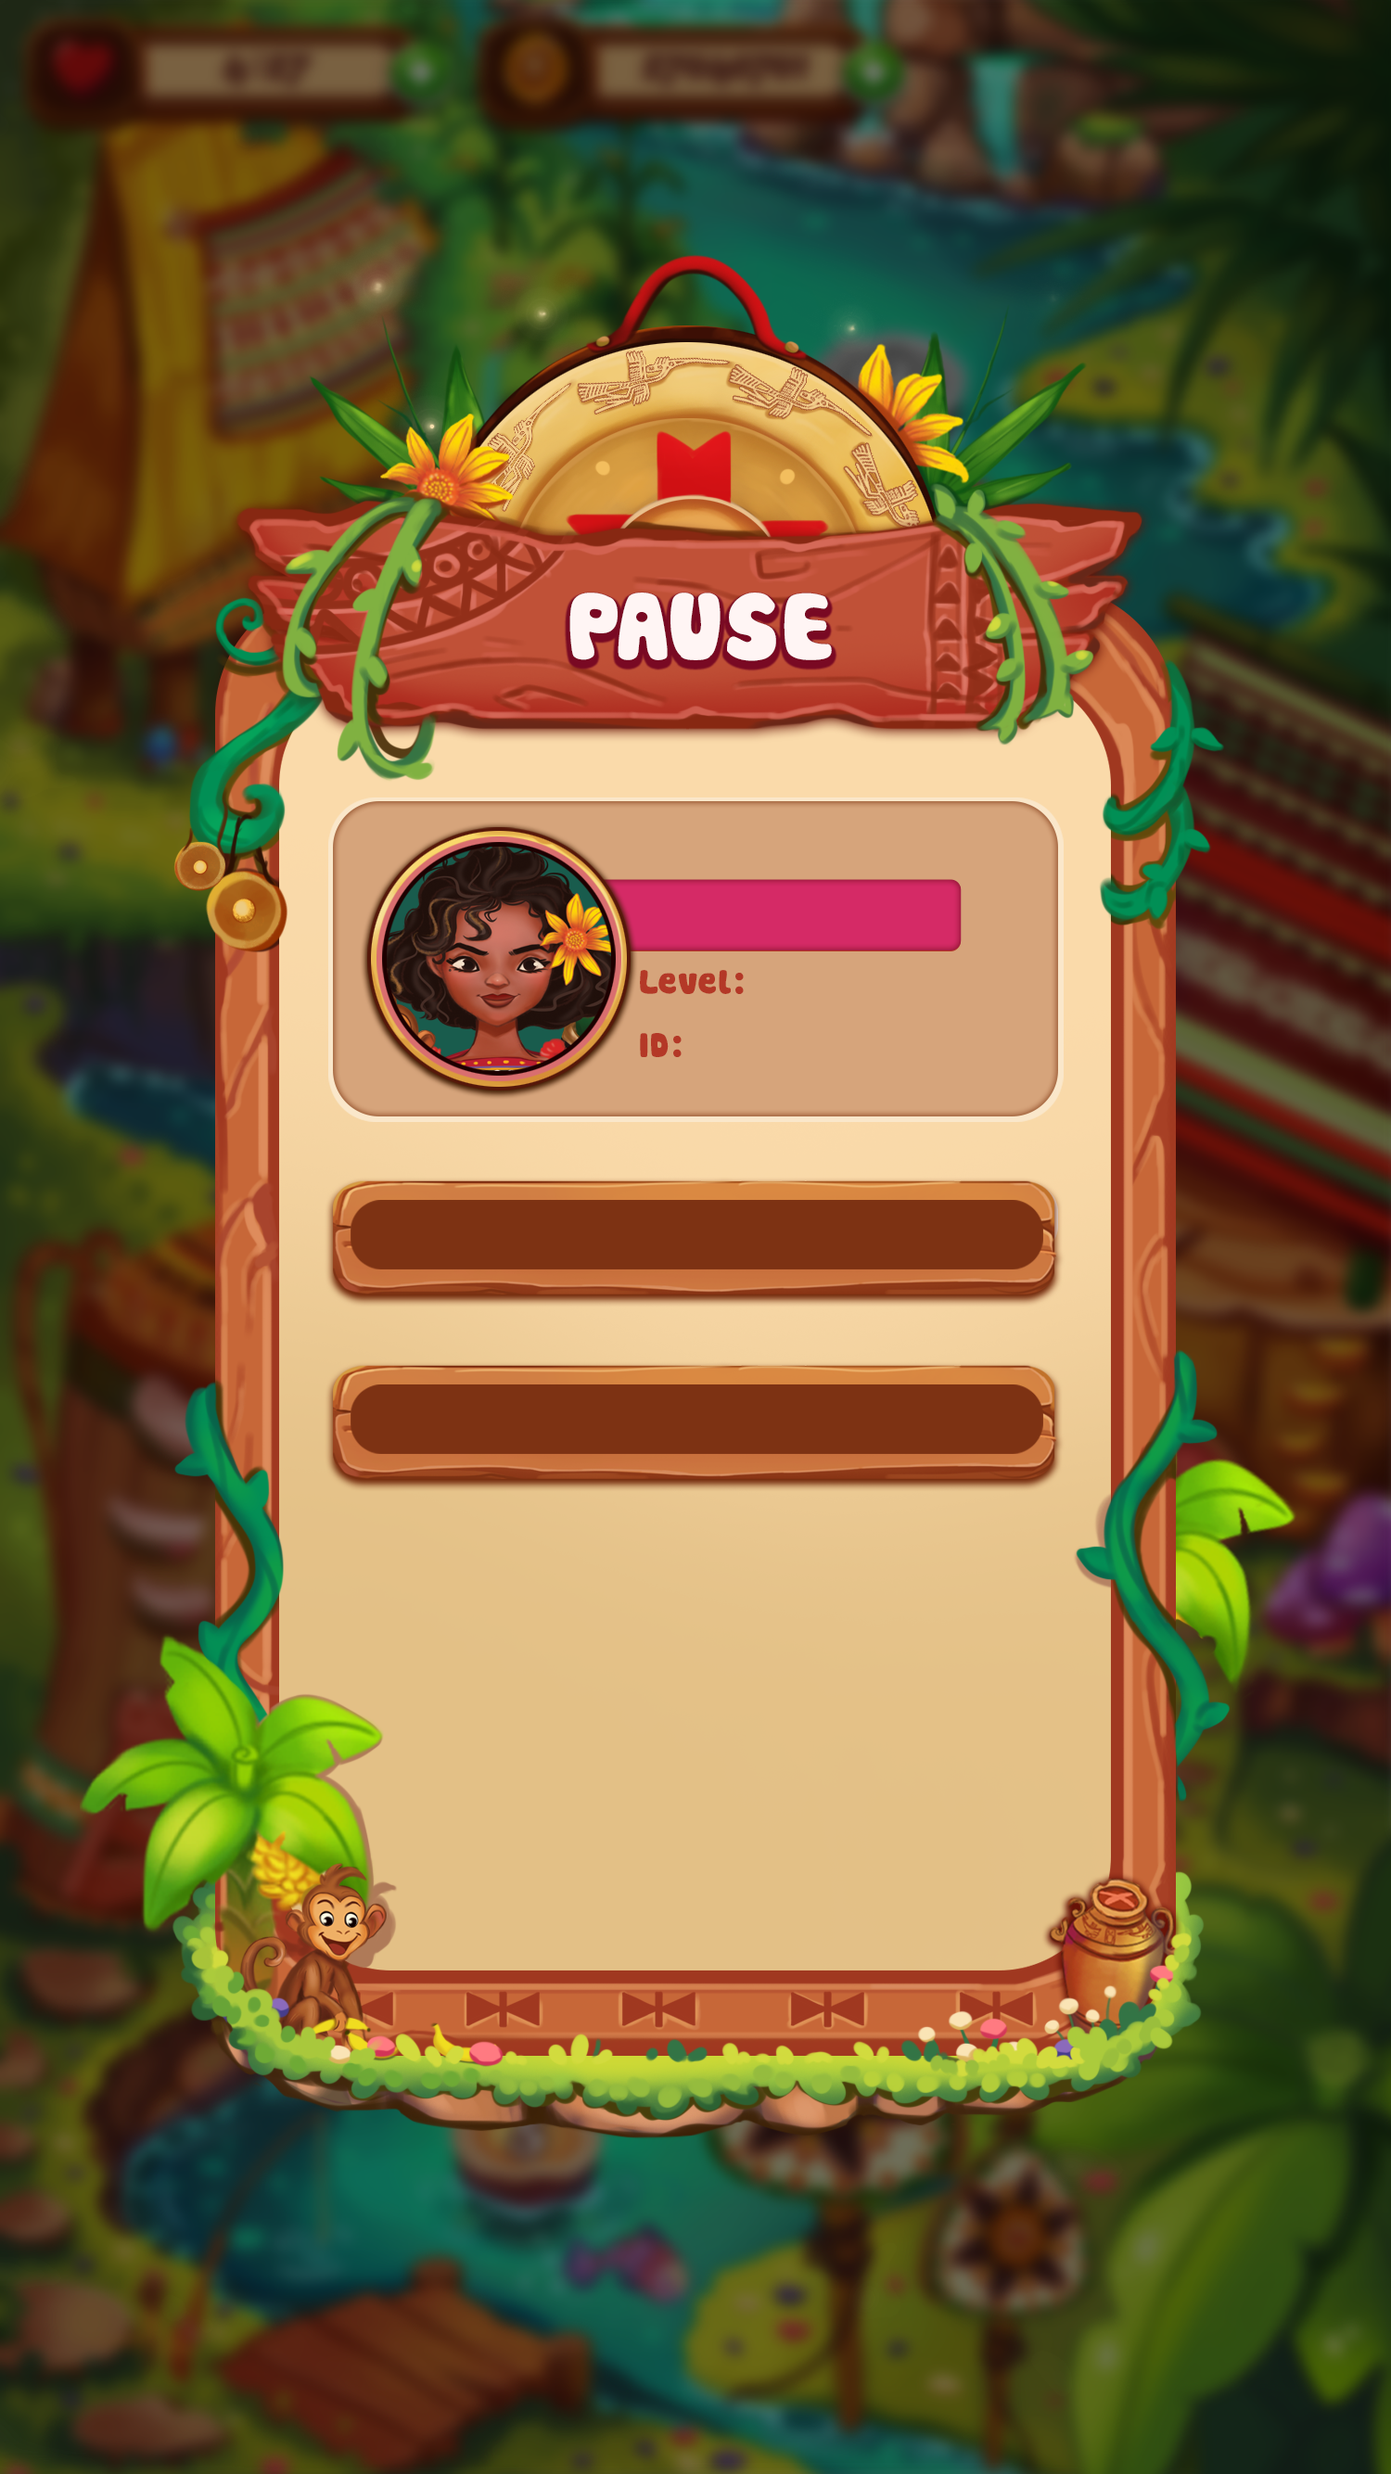
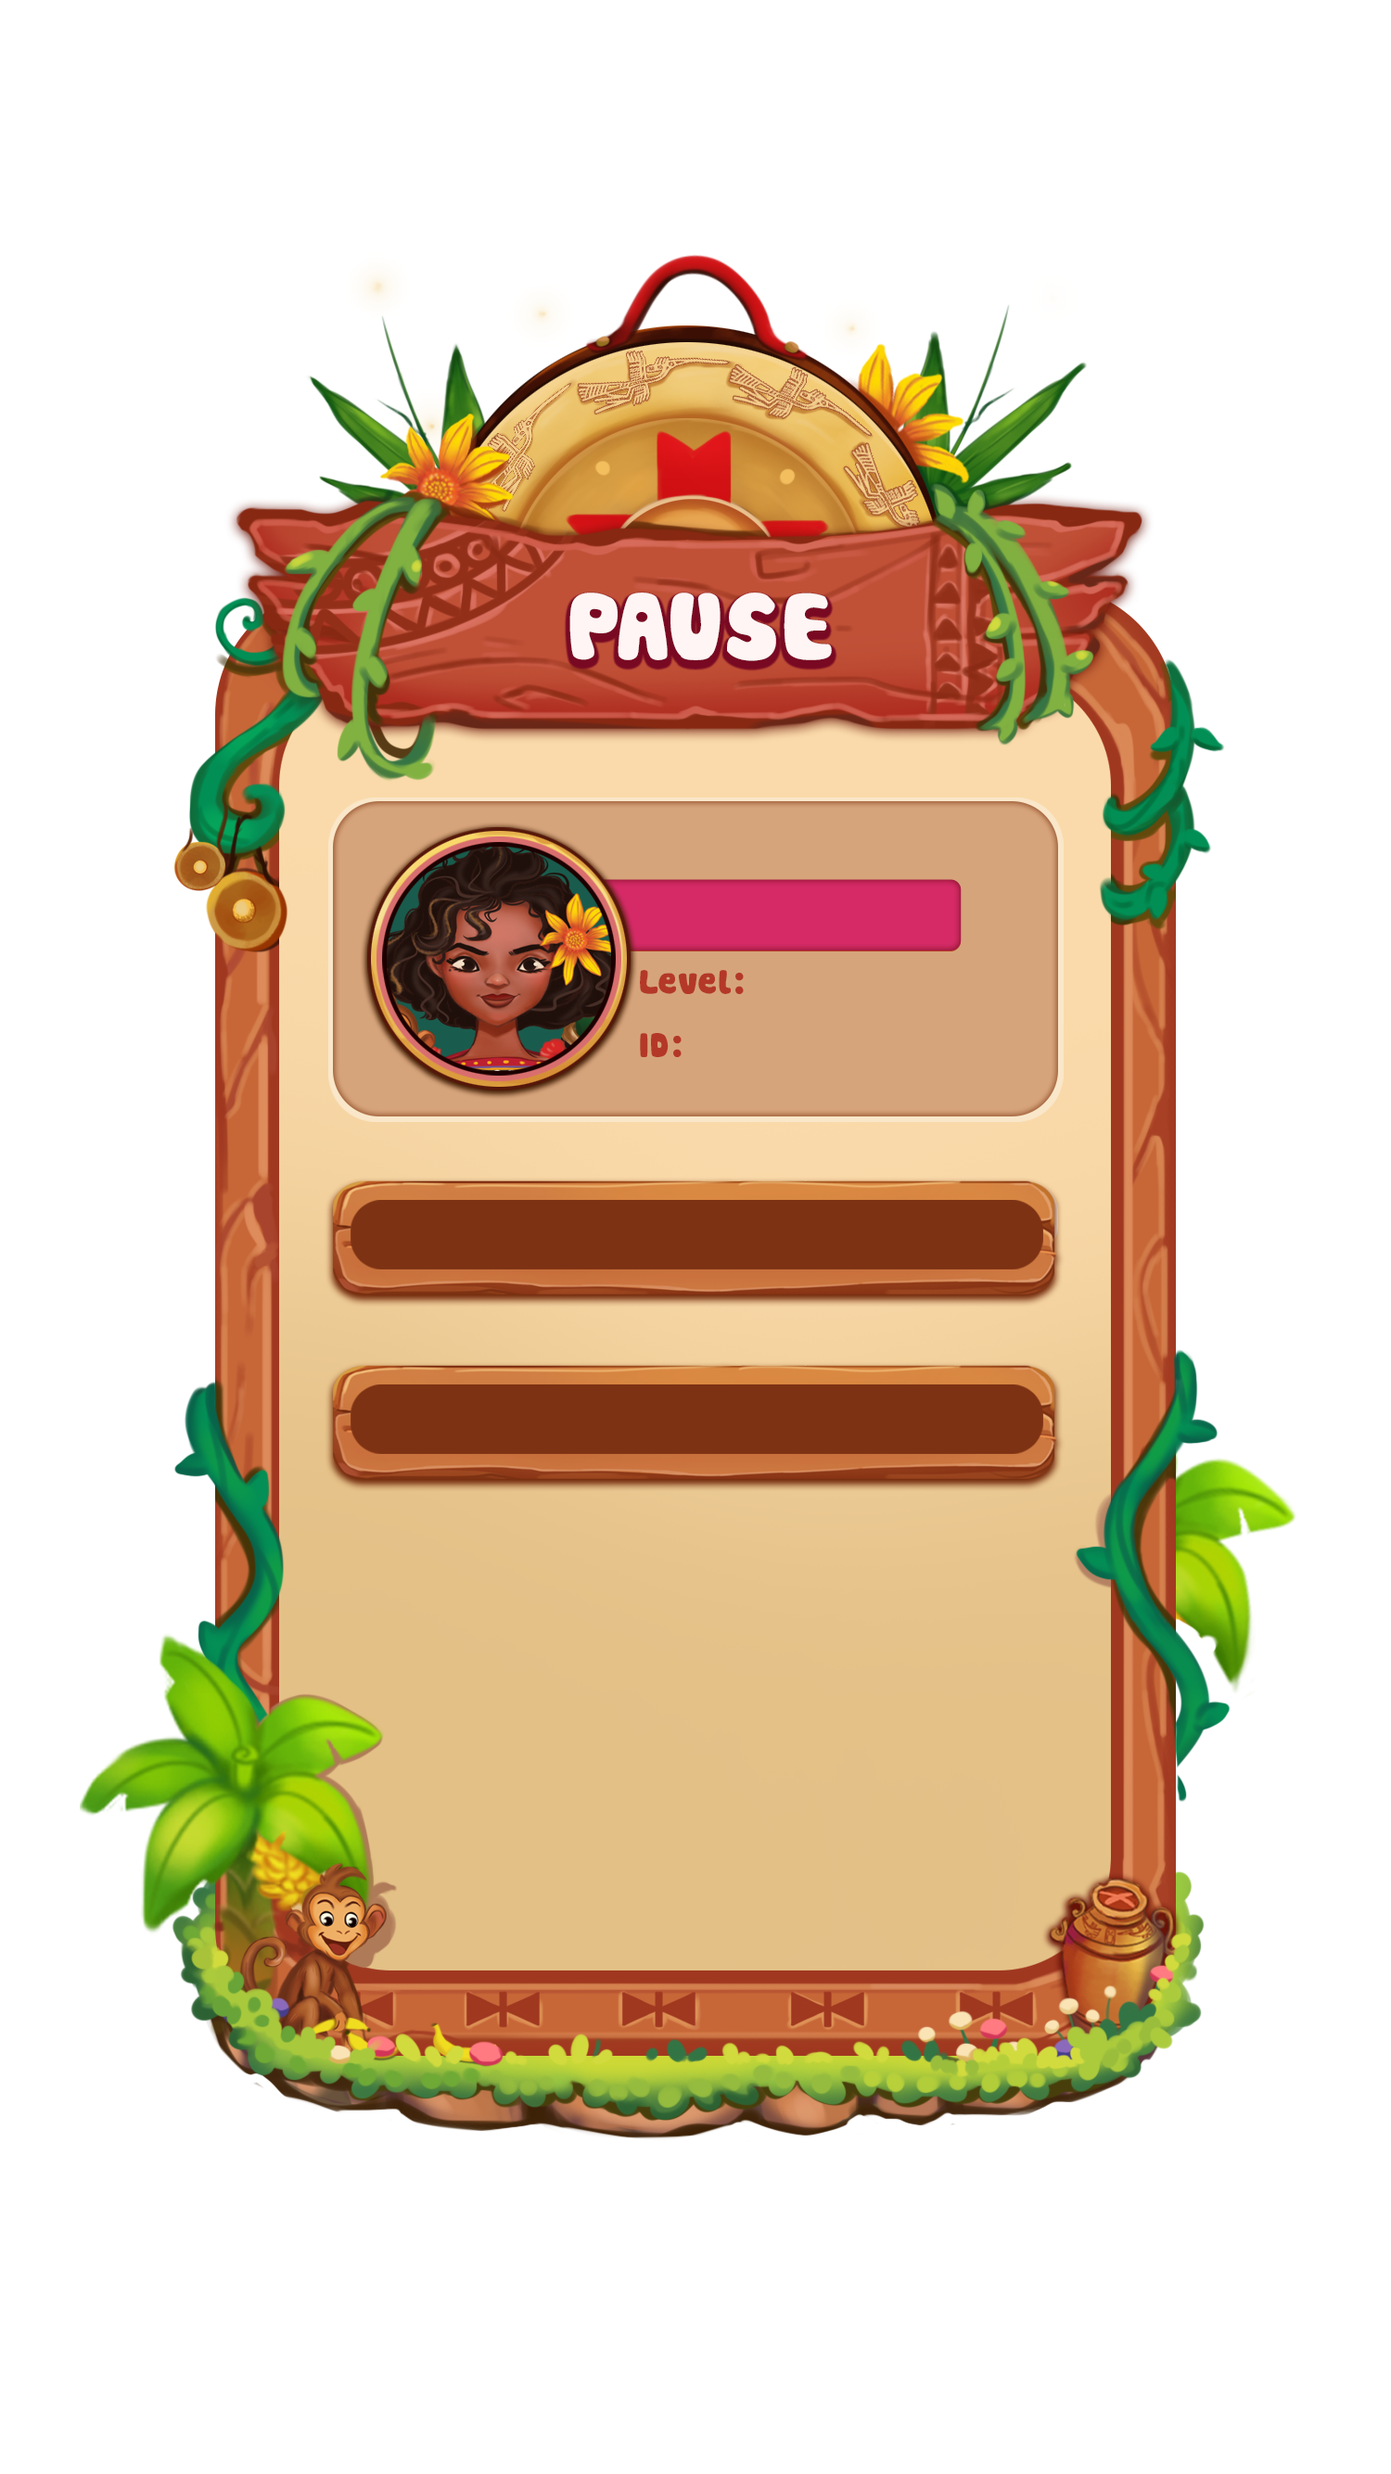
ok
ok

diff --git a/src/scenes/popups/LevelReviewPopup.js b/src/scenes/popups/LevelReviewPopup.js
@@ -1,0 +1,205 @@
+// src/scenes/popups/LevelReviewPopup.js
+import Phaser from 'phaser';
+import PlayerDataManager from '../../managers/PlayerDataManager';
+import { ObjectiveItem } from '../../ui/ObjectiveItem';
+import { BOOSTER_TYPES } from '../../utils/constants';
+
+export class LevelReviewPopup extends Phaser.Scene {
+    constructor() {
+        super({ key: 'LevelReviewPopup' });
+        this.levelId = 1;
+        this.levelData = null;
+        this.playerData = null;
+    }
+
+    // Nhận dữ liệu từ MapScene
+    init(data) {
+        this.levelId = data.levelId;
+        this.levelData = data.levelData;
+    }
+
+    create() {
+        const { width, height } = this.scale;
+        this.playerData = PlayerDataManager.getUserData();
+
+        // 1. Tạm dừng MapScene
+        this.scene.pause('MapScene');
+
+        // 2. Tạo một lớp nền mờ
+        const overlay = this.add.rectangle(0, 0, width, height, 0x000000, 0.7)
+            .setOrigin(0)
+            .setInteractive()
+            .setDepth(1);
+
+        // 3. Tạo background UI chính
+        const uiBackground = this.add.image(width / 2, height / 2, 'level_review_ui')
+            .setOrigin(0.5)
+            .setScale(0.4)
+            .setDepth(2);
+
+        // 4. Tạo nút đóng (X) - vị trí tương tự PausePopup
+        const closeButton = this.add.image(450, 200, 'pause_exit')
+            .setOrigin(0.5)
+            .setScale(0.4)
+            .setInteractive({ useHandCursor: true })
+            .setDepth(5);
+
+        closeButton.on('pointerdown', () => {
+            this.closePopup();
+        });
+
+        // 5. Tạo bảng nhiệm vụ
+        this.createObjectivesPanel(width, height);
+
+        // 6. Tạo bảng booster
+        this.createBoostersPanel(width, height);
+
+        // 7. Tạo nút bắt đầu chơi
+        this.createPlayButton(width, height);
+
+        // 9. Đảm bảo game resume khi popup tắt
+        this.events.on('shutdown', this.onResumeMap, this);
+    }
+
+
+    createObjectivesPanel(width, height) {
+        if (!this.levelData || !this.levelData.objectives) return;
+
+        // Vị trí cố định cho 4 mission (max = 4)
+        const missionPositions = [
+            { x: 170, y: 410 },
+            { x: 250, y: 410 },
+            { x: 330, y: 410 },
+            { x: 400, y: 410 }
+        ];
+
+        this.objectiveItems = {};
+
+        this.levelData.objectives.forEach((objData, index) => {
+            // Chỉ hiển thị tối đa 4 mission
+            if (index >= 4) return;
+            
+            const position = missionPositions[index];
+            
+            // Tạo key duy nhất cho mỗi nhiệm vụ
+            const objectiveKey = `${objData.target}_${objData.type}`;
+            
+            const item = new ObjectiveItem(this, position.x, position.y, objData);
+            this.objectiveItems[objectiveKey] = item;
+            item.setDepth(3);
+        });
+    }
+
+    createBoostersPanel(width, height) {
+        // Vị trí cố định cho 4 booster
+        const boosterPositions = [
+            { x: 170, y: 620 },
+            { x: 250, y: 620 },
+            { x: 330, y: 620 },
+            { x: 400, y: 620 }
+        ];
+
+        const boosterTypes = [
+            { key: 'booster_hammer', type: BOOSTER_TYPES.HAMMER },
+            { key: 'booster_swap', type: BOOSTER_TYPES.SWAP },
+            { key: 'booster_rocket', type: BOOSTER_TYPES.ROCKET },
+            { key: 'booster_shuffle', type: BOOSTER_TYPES.SHUFFLE }
+        ];
+
+        this.boosterItems = [];
+
+        boosterTypes.forEach((boosterInfo, index) => {
+            const position = boosterPositions[index];
+            
+            // Tạo background cho booster
+            const background = this.add.image(position.x, position.y, 'booster_background')
+                .setOrigin(0.5)
+                .setScale(0.4)
+                .setDepth(2);
+            
+            // Điều chỉnh vị trí X cho từng loại booster
+            let iconX = position.x;
+            if (boosterInfo.type === BOOSTER_TYPES.HAMMER) {
+                iconX = position.x + 10;
+            } else if (boosterInfo.type === BOOSTER_TYPES.SHUFFLE) {
+                iconX = position.x - 10;
+            }
+            
+            // Tạo icon booster
+            const icon = this.add.image(iconX, position.y - 15, boosterInfo.key)
+                .setOrigin(0.5)
+                .setScale(0.15)
+                .setDepth(3);
+
+            // Lấy số lượng từ inventory
+            const count = this.playerData.inventory.boosters[boosterInfo.type] || 0;
+            
+            // Tạo background cho quantity
+            const quantityBg = this.add.image(position.x + 29, position.y + 31, 'quantity_background')
+                .setOrigin(1, 1)
+                .setScale(0.4)
+                .setDepth(3);
+            
+            let countDisplay;
+            if (count === 0) {
+                // Nếu số lượng = 0, hiển thị add_icon
+                countDisplay = this.add.image(position.x + 20, position.y + 20, 'add_icon')
+                    .setOrigin(1, 1)
+                    .setScale(0.3)
+                    .setDepth(4);
+            } else {
+                // Nếu có số lượng, hiển thị text
+                countDisplay = this.add.text(position.x + 20, position.y + 20, `${count}`, {
+                    fontFamily: 'UTMCookies',
+                    fontSize: '18px',
+                    color: '#ffffff',
+                    stroke: '#000000',
+                    fontWeight: 'bold',
+                    strokeThickness: 3
+                }).setOrigin(1, 1).setDepth(4);
+            }
+
+            this.boosterItems.push({ background, icon, quantityBg, countDisplay, type: boosterInfo.type, count });
+        });
+    }
+
+    createPlayButton(width, height) {
+        // Tạo nút Play sử dụng texture play.png
+        const playButton = this.add.image(width / 2, 750, 'play_button')
+            .setOrigin(0.5)
+            .setScale(0.5)
+            .setInteractive({ useHandCursor: true })
+            .setDepth(3);
+
+        playButton.on('pointerdown', () => {
+            this.startGame();
+        });
+
+        // Hiệu ứng hover
+        playButton.on('pointerover', () => {
+            playButton.setScale(0.52);
+        });
+
+        playButton.on('pointerout', () => {
+            playButton.setScale(0.5);
+        });
+    }
+
+    closePopup() {
+        this.events.off('shutdown', this.onResumeMap, this);
+        this.onResumeMap();
+        this.scene.stop();
+    }
+
+    onResumeMap() {
+        if (this.scene.isPaused('MapScene')) {
+            this.scene.resume('MapScene');
+        }
+    }
+
+    startGame() {
+        // Chuyển sang LevelLoaderScene với levelId
+        this.scene.stop('MapScene');
+        this.scene.start('LevelLoaderScene', { levelId: this.levelId });
+    }
+}

diff --git a/src/scenes/PreloaderScene.js b/src/scenes/PreloaderScene.js
@@ -158,6 +158,39 @@ export class PreloaderScene extends Phaser.Scene {
         this.load.image('pause_music', 'assets/images/ui/pause/music.png');
         this.load.image('pause_sound', 'assets/images/ui/pause/sound.png');
         
+        // Load Level Review UI assets
+        this.load.image('level_review_ui', 'assets/images/ui/level_review/UI.png');
+        
+        // Load Play button
+        this.load.image('play_button', 'assets/images/ui/level_review/play.png');
+        
+        // Load gem images for objectives
+        this.load.image(`gem_red`, 'assets/images/gameplay/gems/red.png');
+        this.load.image(`gem_green`, 'assets/images/gameplay/gems/green.png');
+        this.load.image(`gem_blue`, 'assets/images/gameplay/gems/blue.png');
+        this.load.image(`gem_purple`, 'assets/images/gameplay/gems/purple.png');
+        this.load.image(`gem_yellow`, 'assets/images/gameplay/gems/yellow.png');
+        this.load.image(`gem_orange`, 'assets/images/gameplay/gems/orange.png');
+        
+        // Load power-up images for objectives
+        this.load.image(`gem_bomb`, 'assets/images/gameplay/gems/bomb.png');
+        this.load.image(`gem_color_bomb`, 'assets/images/gameplay/gems/color_bomb.png');
+        this.load.image(`gem_stripe`, 'assets/images/gameplay/gems/stripe.png');
+        
+        // Load blocker images for objectives
+        this.load.image(`blocker_stone_1`, 'assets/images/gameplay/blockers/blocker_stone_2.png');
+        this.load.image(`blocker_stone_2`, 'assets/images/gameplay/blockers/blocker_stone_1.png');
+        this.load.image(`blocker_rope`, 'assets/images/gameplay/blockers/blocker_rope.png');
+        
+        // Load booster icons for Level Review
+        this.load.image('booster_hammer', 'assets/images/ui/booster_hammer.png');
+        this.load.image('booster_swap', 'assets/images/ui/booster_swap.png');
+        this.load.image('booster_rocket', 'assets/images/ui/booster_rocket.png');
+        this.load.image('booster_shuffle', 'assets/images/ui/booster_shuffle.png');
+        this.load.image('booster_background', 'assets/images/ui/level_review/booster_background.png');
+        this.load.image('quantity_background', 'assets/images/ui/level_review/quantity_background.png');
+        this.load.image('add_icon', 'assets/images/ui/level_review/add_icon.png');
+        
         // Load UI Progress Bar assets
         this.load.image('progress_bar_background', 'assets/images/ui/progress_bar_background.png');
         this.load.image('progress_bar_fill', 'assets/images/ui/progress_bar_fill.png');

diff --git a/src/scenes/LevelLoaderScene.js b/src/scenes/LevelLoaderScene.js
@@ -14,30 +14,6 @@ export class LevelLoaderScene extends Phaser.Scene {
     preload() {
         console.log("LevelLoaderScene: Bắt đầu load assets gameplay...");
         
-        // Load gem images
-        this.load.image(`gem_red`, 'assets/images/gameplay/gems/red.png');
-        this.load.image(`gem_green`, 'assets/images/gameplay/gems/green.png');
-        this.load.image(`gem_blue`, 'assets/images/gameplay/gems/blue.png');
-        this.load.image(`gem_purple`, 'assets/images/gameplay/gems/purple.png');
-        this.load.image(`gem_yellow`, 'assets/images/gameplay/gems/yellow.png');
-        this.load.image(`gem_orange`, 'assets/images/gameplay/gems/orange.png');
-        
-        // Load power-up images
-        this.load.image(`gem_bomb`, 'assets/images/gameplay/gems/bomb.png');
-        this.load.image(`gem_color_bomb`, 'assets/images/gameplay/gems/color_bomb.png');
-        this.load.image(`gem_stripe`, 'assets/images/gameplay/gems/stripe.png');
-        
-        // Load blocker images (stone levels + rope)
-        this.load.image(`blocker_stone_1`, 'assets/images/gameplay/blockers/blocker_stone_2.png');
-        this.load.image(`blocker_stone_2`, 'assets/images/gameplay/blockers/blocker_stone_1.png');
-        this.load.image(`blocker_rope`, 'assets/images/gameplay/blockers/blocker_rope.png');
-        
-        // Load booster icons (UI)
-        this.load.image('booster_hammer', 'assets/images/ui/booster_hammer.png');
-        this.load.image('booster_swap', 'assets/images/ui/booster_swap.png');
-        this.load.image('booster_rocket', 'assets/images/ui/booster_rocket.png');
-        this.load.image('booster_shuffle', 'assets/images/ui/booster_shuffle.png');
-        
         // Load note images for Stripe effect
         this.load.image('note1', 'assets/images/vfx/note1.png');
         this.load.image('note2', 'assets/images/vfx/note2.png');

diff --git a/src/ui/LevelNode.js b/src/ui/LevelNode.js
@@ -74,10 +74,16 @@ export class LevelNode extends Phaser.GameObjects.Container {
         });
         
         this.button.on('pointerdown', () => {
-            this.scene.cameras.main.fadeOut(300, 0, 0, 0);
-            this.scene.cameras.main.once('camerafadeoutcomplete', () => {
-                this.scene.scene.start('LevelLoaderScene', { levelId: this.levelId });
+            // Load level data và mở Level Review Popup
+            this.scene.load.json(`level_${this.levelId}`, `assets/levels/level_${this.levelId}.json`);
+            this.scene.load.once('complete', () => {
+                const levelData = this.scene.cache.json.get(`level_${this.levelId}`);
+                this.scene.scene.launch('LevelReviewPopup', { 
+                    levelId: this.levelId, 
+                    levelData: levelData 
+                });
             });
+            this.scene.load.start();
         });
     }
     

diff --git a/src/main.js b/src/main.js
@@ -10,6 +10,7 @@ import { UIScene } from './scenes/UIScene';
 import { SettingsPopup } from './scenes/popups/SettingsPopup';
 import { PausePopup } from './scenes/popups/PausePopup';
 import { WinPopup } from './scenes/popups/WinPopup';
+import { LevelReviewPopup } from './scenes/popups/LevelReviewPopup';
 
 const config = {
   type: Phaser.AUTO,
@@ -21,7 +22,7 @@ const config = {
     width: 576,
     height: 1024,
   },
-  scene: [BootScene, PreloaderScene, DemoScene, MapScene, LevelLoaderScene, GameScene, UIScene, SettingsPopup, PausePopup, WinPopup] 
+  scene: [BootScene, PreloaderScene, DemoScene, MapScene, LevelLoaderScene, GameScene, UIScene, SettingsPopup, PausePopup, WinPopup, LevelReviewPopup] 
 };
 
 function initializeApp() {
